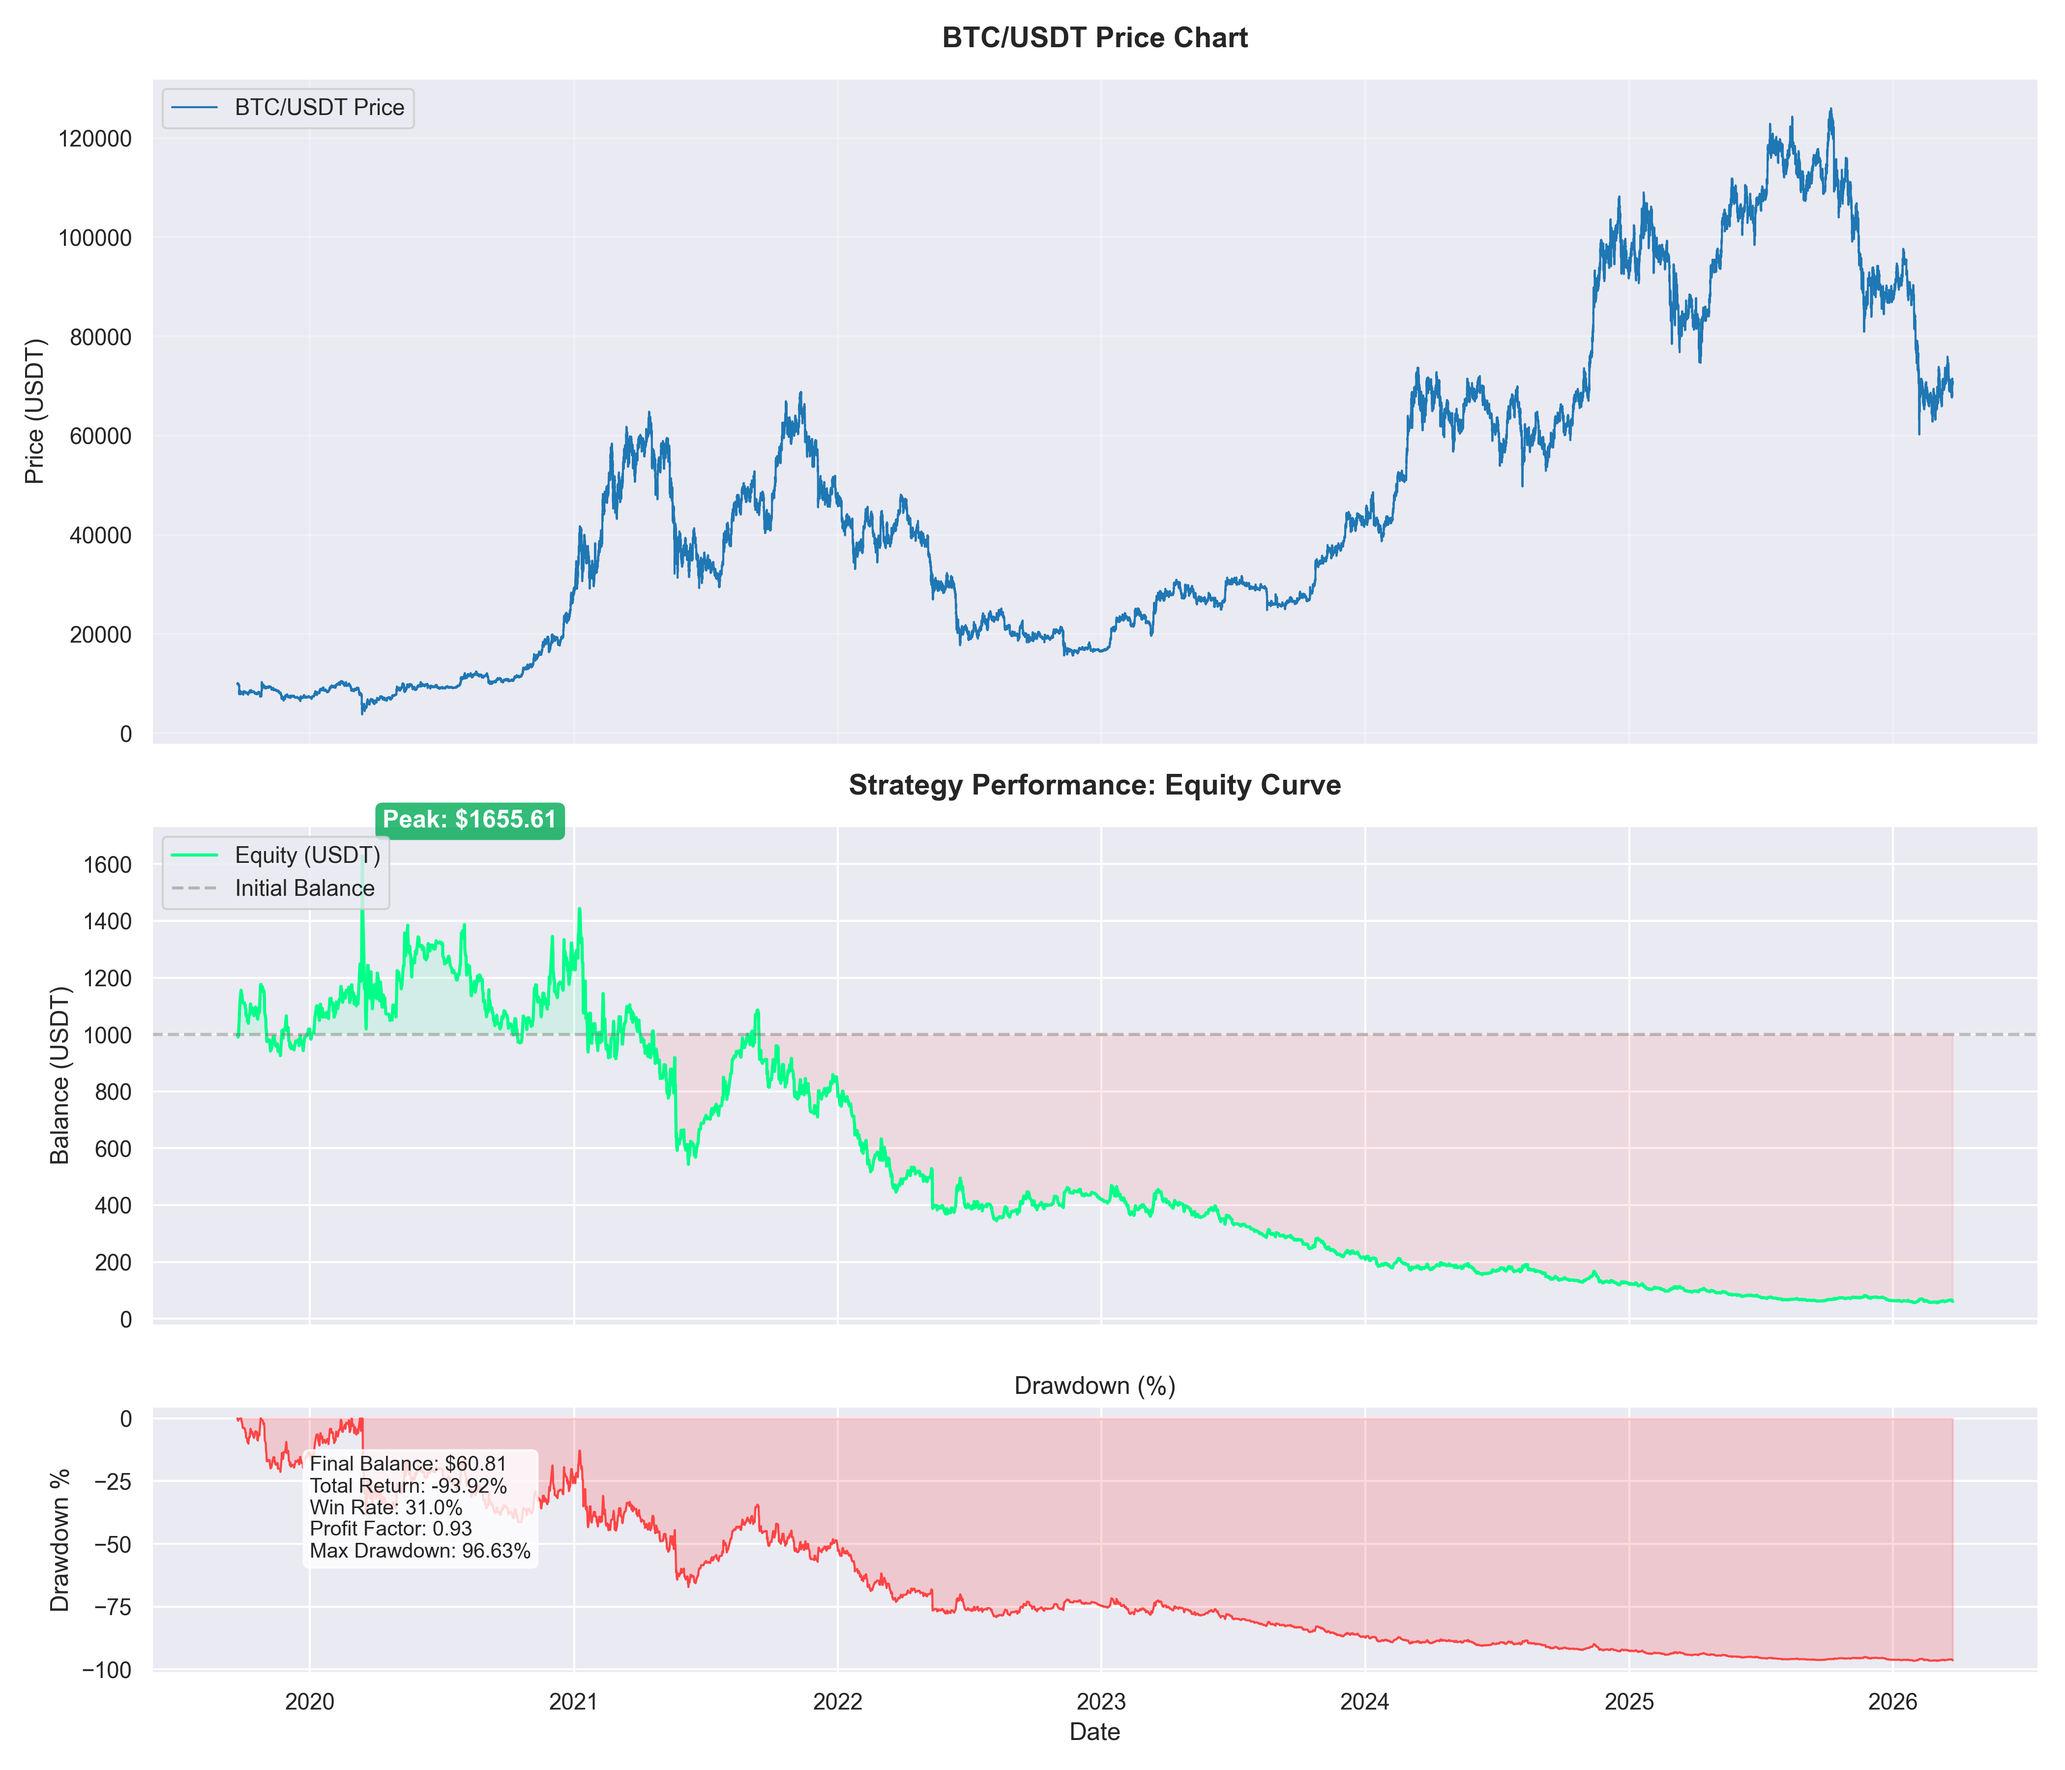
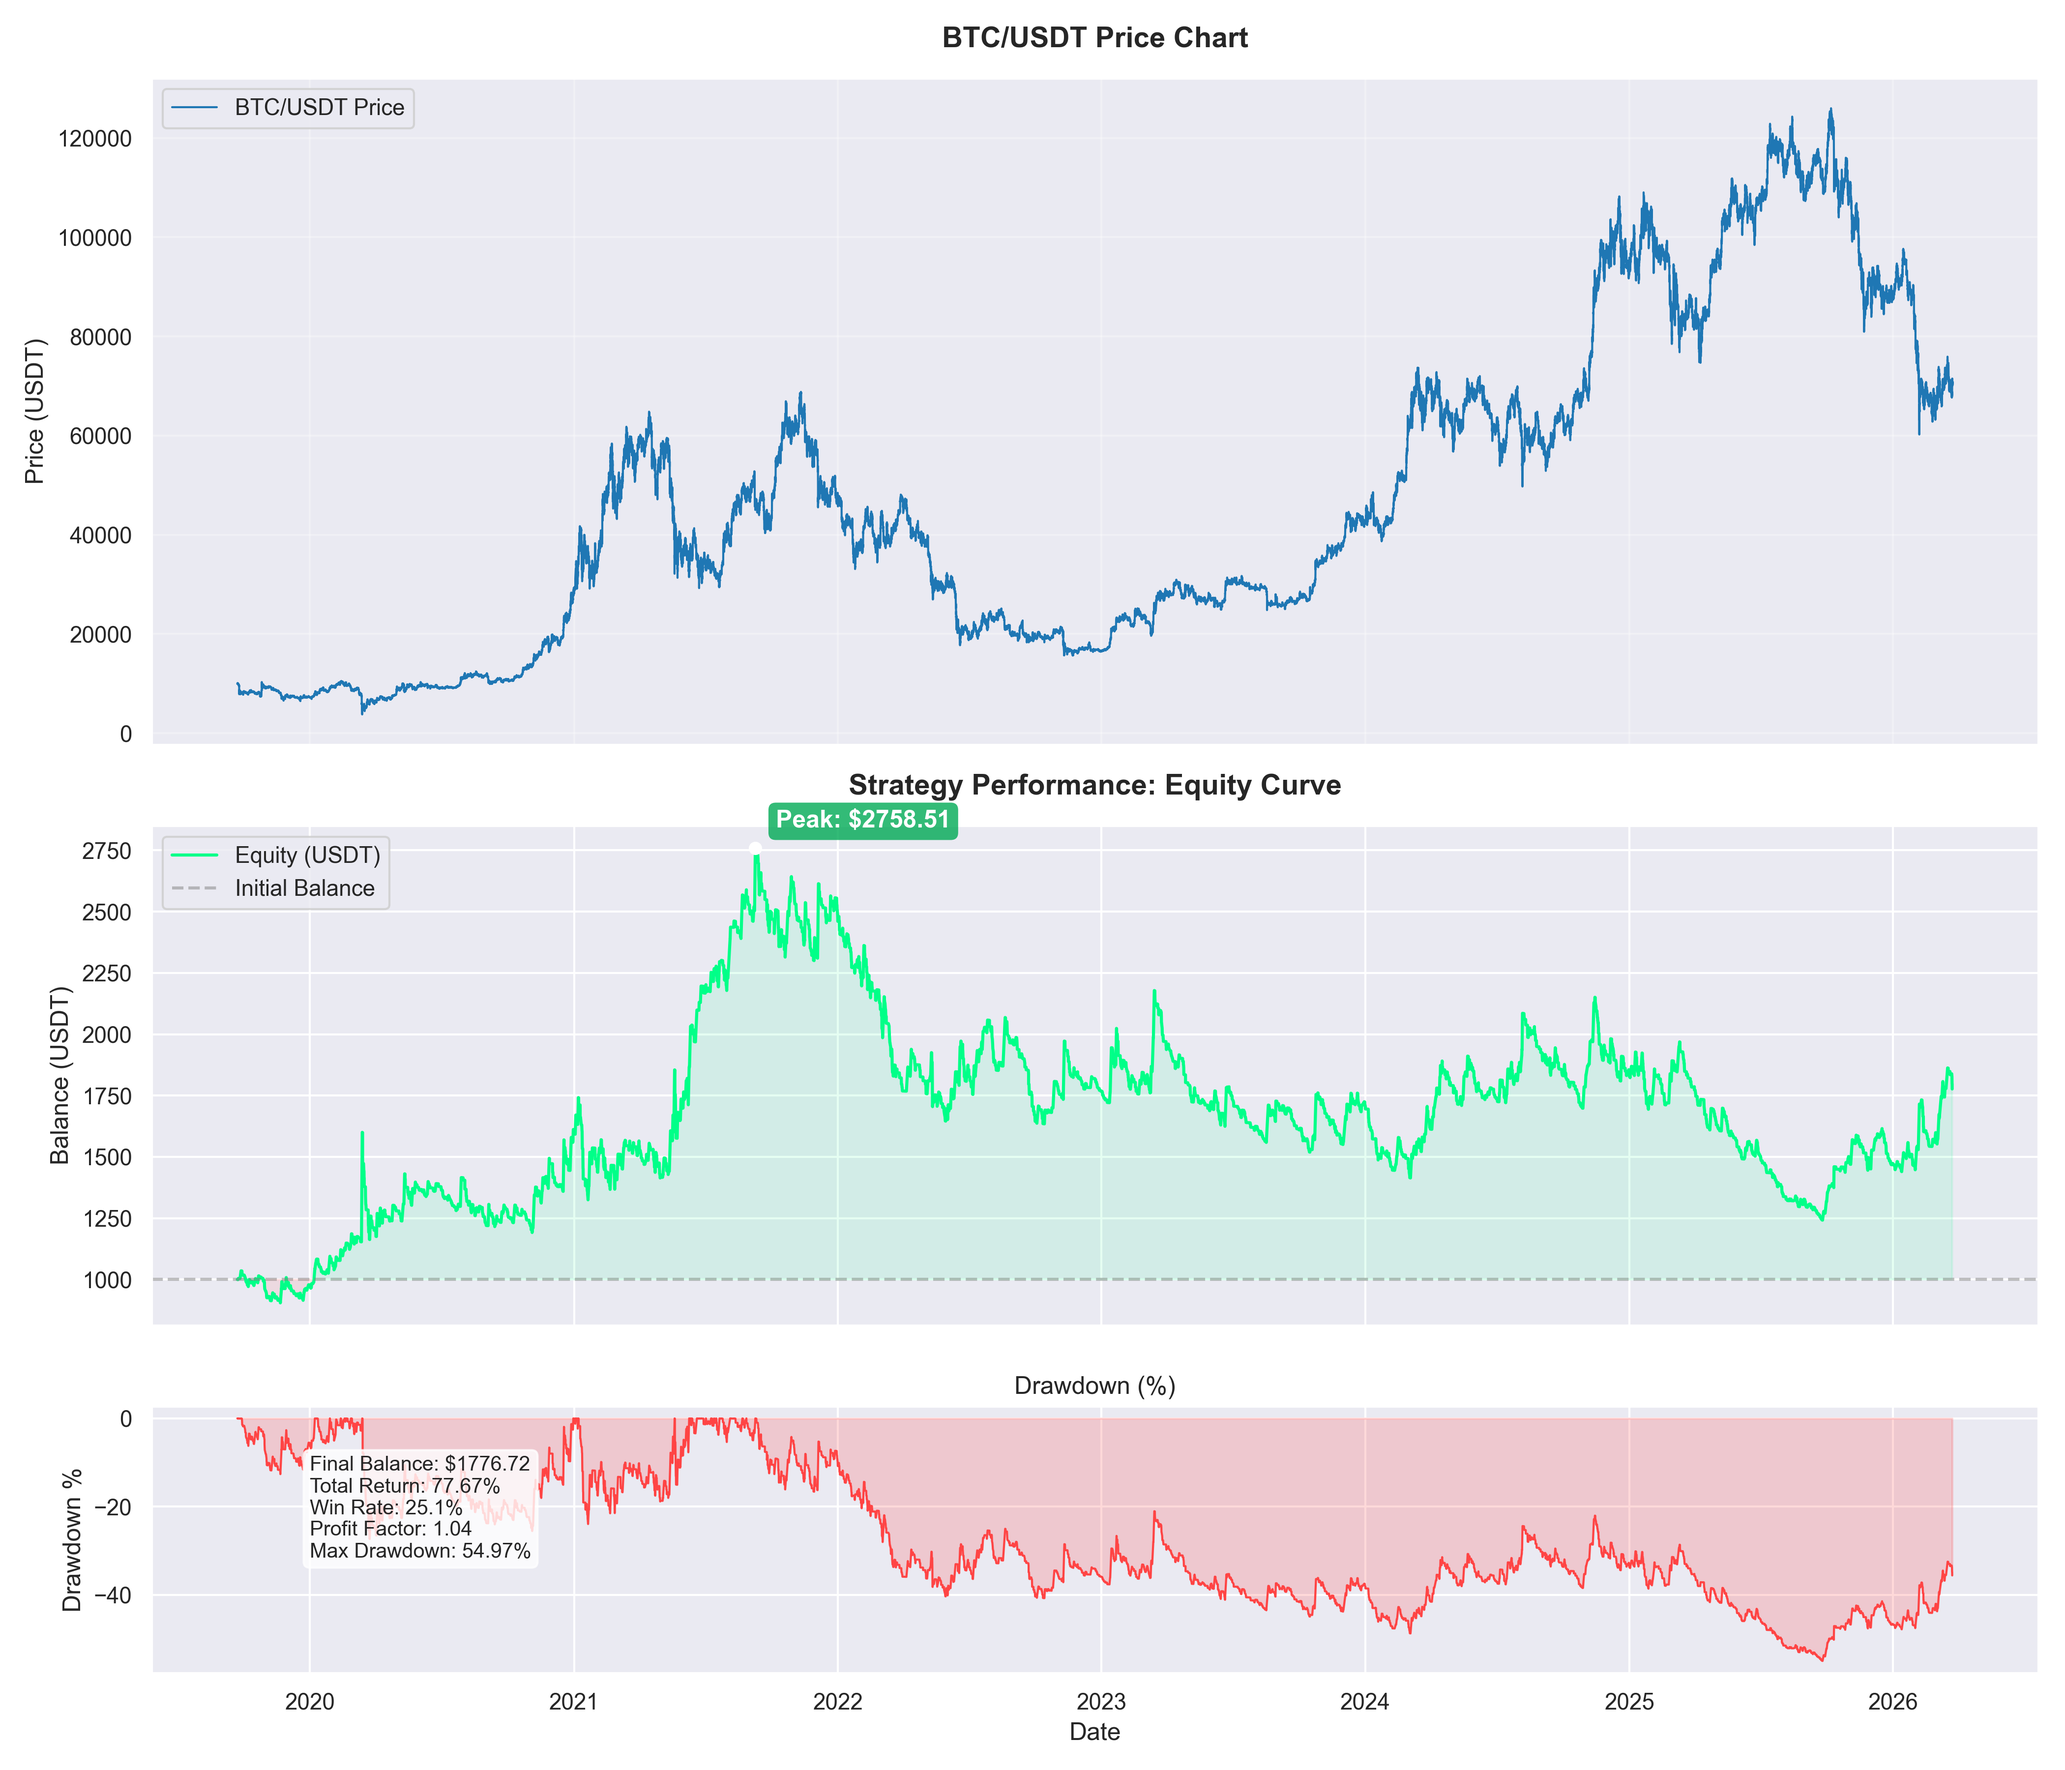
feat: Introduce a structured trading configuration, a backtesting orchestrator with improved HTF filtering, and an ATR stop loss optimizer.

diff --git a/module/optimize/optimize_atr_sl.py b/module/optimize/optimize_atr_sl.py
@@ -1,0 +1,90 @@
+import numpy as np
+import pandas as pd
+from base_optimizer import BaseOptimizer
+from module.backtest.orchestrator import simulate
+from module.bot.data_processor import DataProcessor
+from resource.config import SUPERTREND_LENGTH, SUPERTREND_FACTOR, EMA_LENGTH, VOLUME_MA_LENGTH
+
+
+def run_simulation(atr_len, sl_multiplier, df_final):
+    """
+    Run simulation with a specific ATR length and Stop Loss multiplier.
+    """
+    df_atr = df_final.copy()
+
+    # Recalculate ATR with specific length
+    df_atr["ATR"] = DataProcessor.calculate_atr(df_atr, length=atr_len)
+
+    # Pass parameters to simulate with stoploss enabled
+    res, _ = simulate(
+        df_atr,
+        use_stoploss=True,
+        use_ema_filter=True,
+        use_volume_filter=True,
+        sl_multiplier=sl_multiplier,
+        st_length=SUPERTREND_LENGTH,
+        st_factor=SUPERTREND_FACTOR,
+        ema_length=EMA_LENGTH,
+        volume_ma_length=VOLUME_MA_LENGTH,
+    )
+
+    return {
+        "atr_length": atr_len,
+        "sl_multiplier": sl_multiplier,
+        "pnl_pct": res["pnl_pct"],
+        "win_rate": res["win_rate"],
+        "pf": res["profit_factor"],
+        "mdd": res["max_drawdown"],
+        "total_trades": res["total_trades"],
+    }
+
+
+def run_optimization():
+    optimizer = BaseOptimizer("ATR Stop Loss Optimization")
+
+    if not optimizer.load_and_prepare_data():
+        return
+
+    # Define ranges for ATR length and SL multiplier
+    atr_lengths = np.arange(18, 23, 1)
+    sl_multipliers = np.arange(1, 1.75, 0.05)
+
+    # Create tasks
+    tasks = [(int(atr_len), round(sl_mult, 2)) for atr_len in atr_lengths for sl_mult in sl_multipliers]
+
+    results = optimizer.run_parallel(tasks, run_simulation)
+
+    opt_df = optimizer.save_and_analyze(
+        results, "../../resource/optimization_results_atr_sl.csv"
+    )
+
+    if opt_df is not None and not opt_df.empty:
+        # Recommend the best overall (Balance MDD and PnL)
+        print("\n🔍 Findings (MDD < 20%):")
+        valid_mdd = opt_df[opt_df["mdd"] < 20]
+
+        if not valid_mdd.empty:
+            print("\n🌟 BEST BY PNL:")
+            print(
+                valid_mdd.sort_values(by="pnl_pct", ascending=False)
+                .head(3)
+                .to_string(index=False)
+            )
+
+            print("\n🛡 BEST BY PROFIT FACTOR:")
+            print(
+                valid_mdd.sort_values(by="pf", ascending=False)
+                .head(3)
+                .to_string(index=False)
+            )
+        else:
+            print("\n⚠ No configuration found with MDD < 20%. Showing best by PnL:")
+            print(
+                opt_df.sort_values(by="pnl_pct", ascending=False)
+                .head(3)
+                .to_string(index=False)
+            )
+
+
+if __name__ == "__main__":
+    run_optimization()

diff --git a/module/backtest/orchestrator.py b/module/backtest/orchestrator.py
@@ -166,10 +166,10 @@ def run_backtest():
     res, trades = simulate(
         df_final,
         use_ema_filter=True,
-        use_volume_filter=False,
+        use_volume_filter=True,
         use_htf_filter=False,
         use_breakeven=False,
-        use_stoploss=False,
+        use_stoploss=True,
         use_takeprofit=False,
     )
 

diff --git a/resource/config.py b/resource/config.py
@@ -37,8 +37,8 @@ class TradingConfig:
     POSITION_SIZE_PERCENT: float = 1
 
     # ATR Stop Loss
-    ATR_LENGTH: int = 14
-    ATR_MULTIPLIER: float = 0.74
+    ATR_LENGTH: int = 18
+    ATR_MULTIPLIER: float = 1.6
 
     # Fee Rate (Taker - Binance Futures, no BNB discount)
     TAKER_FEE_RATE: float = 0.0005
